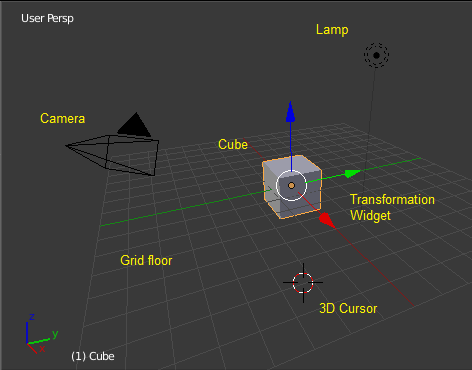
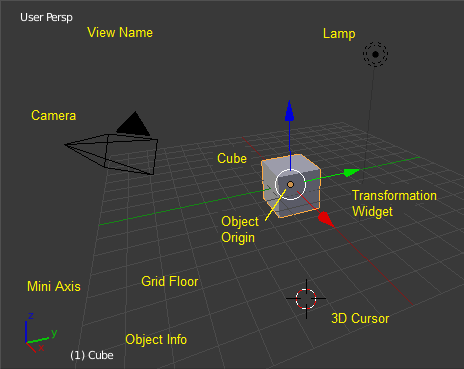
3d view startup scene: details

diff --git a/manual/editors/3dview/startup_scene.rst b/manual/editors/3dview/startup_scene.rst
@@ -1,48 +1,54 @@
-.. this file a many potential placements: interface, data/scenes, 3d view, info editor, user preferences
+.. this file has many potential placements: interface, data/scenes, 3d view, info editor, user preferences
 
 *************
 Startup Scene
 *************
 
-After closing the splash the startup scene is loaded in the 3D View.
+After closing the splash the startup scene is displayed in the 3D View,
+if no other blend-file was loaded.
 
 .. figure:: /images/editors_3dview_startup_scene.png
 
    The Startup scene.
 
+
 Elements
 ========
 
 Cube
-   The gray cube in the center of the scene is a :doc:`mesh </modeling/meshes/index>`.
-   Because the cube is selected is is drawn with a orange outline.
+   The gray cube in the center of the scene is a :doc:`mesh </modeling/meshes/index>` object.
+   Because the cube is selected it is drawn with an orange outline.
    
+   Object Origin
+      The Origin of the object is displayed as an orange dot and it marks the cubes (relative) position.
    Transformation Widget
-      It is composed of an orange dot marking the cubes position, a white circle around it,
-      and three colored (red, green, and blue) arrows. It is used to move the cube in the scene.
+      This widget is composed out of a white circle and three colored (red, green, and blue) arrows.
+      It is used to move the cube in the scene.
 Lamp
    The circle with a thin line to the bottom is a light source illuminating the cube.
 Camera
    The pyramid with a big triangle pointing upward is the camera used as point of view for rendering.
 3D Cursor
    The cross with a red and white circle used for positioning objects in the scene.
-Grid floor
-   The gray squares mark the floor at zero height of the scene.
-   The red and green lines mark the axis of the coordinate system.
+Grid Floor
+   The gray squares forming a floor mark the zero height of the world.
+   The red and green lines are the axis of the world coordinate system.
    They meet at the origin, which is also the position of the *Cube*.
+
 
 Overlay
 =======
 
-Viewport Camera Perspective
-   ..
+View Name
+   If the viewport camera is not aligned the view is named "User" plus
+   the perspective of the viewport camera.
+Playback FPS
+   Displays the Frames Per Second screen rate, while playing an animation back.
+Mini Axis
+   Shows the axes of world coordinate system as plain lines with name.
+Object Info
+   Shown in brackets is the current frame. Followed by the name of the active object. 
 
-.. scene axis widget, orientation
-   - X axis red.
-   - Y axis green.
-   - Z axis blue.
-
-Active Object
-   ..
+.. object info color (keyframe, ?)
 
 .. saving the startup scene, rendering the startup scene

diff --git a/manual/editors/info/introduction.rst b/manual/editors/info/introduction.rst
@@ -25,18 +25,19 @@ Menus
 Back to Previous
    A button shown when an area is maximized to return to tiled areas.
 Screen
-   :ref:`Data-block menu <ui-data-block>` used to select and edit window layouts.
-   See :doc:`Screens </interface/window_system/screens>`.
+   :ref:`Data-block menu <ui-data-block>` used to select and edit
+   :doc:`Screens </interface/window_system/screens>` (window layouts).
 Scene 
    :ref:`Data-block menu <ui-data-block>` to select different :doc:`Scenes </data_system/scenes/introduction>`.
    Having multiple Scenes allows you to work with separate virtual environments,
    with completely separate data, or with objects and/or mesh data linked between them.
 Engines
    Gives a list of selectable render and game engines.
-Render progress
-   A progressbar and a chancel button is shown while rendering. Hovering over it shows a time estimate.
+Render/Baking progress
+   A progressbar and a chancel button is shown while rendering or baking.
+   Hovering over it shows a time estimate.
 Capture Stop
-   A button shown while screen casting to stop the recording. See :ref:`info-screencast`.
+   A button shown while :ref:`screen casting <info-screencast>` to stop the recording.
 Blender Icon
    Clicking on the Blender logo opens the :ref:`splash`.
 Blender version

diff --git a/manual/interface/window_system/regions.rst b/manual/interface/window_system/regions.rst
@@ -37,7 +37,7 @@ If you move the mouse over an area,
 the header of its editor changes to a slightly lighter shade of gray.
 This means that it is "focused".
 All hotkeys you press will now affect the contents of this editor.
-
+The header can be hidden with :kbd:`Alt-F9`.
 
 .. move to Editor introduction?
 
@@ -96,7 +96,7 @@ Operator panel
 --------------
 
 The Operator panel is a region thats part of the Tool Shelf containing only one panel.
-It displays the inputs of the last operator executed.
+It displays the properties of the last operator executed.
 
 
 Properties Region

diff --git a/manual/interface/common_shortcuts.rst b/manual/interface/common_shortcuts.rst
@@ -68,6 +68,8 @@ While Hovering (when the cursor is held over a button).
 
 - :kbd:`Ctrl` -- While dragging snap the discrete steps.
 - :kbd:`Shift` -- Gives precision control over the value.
+- :kbd:`Ctrl-Shift` -- Precise snap. This option will move the object with high precision 
+  along with the snapping constraint.
 
 .. rubric:: While Editing Text
 
